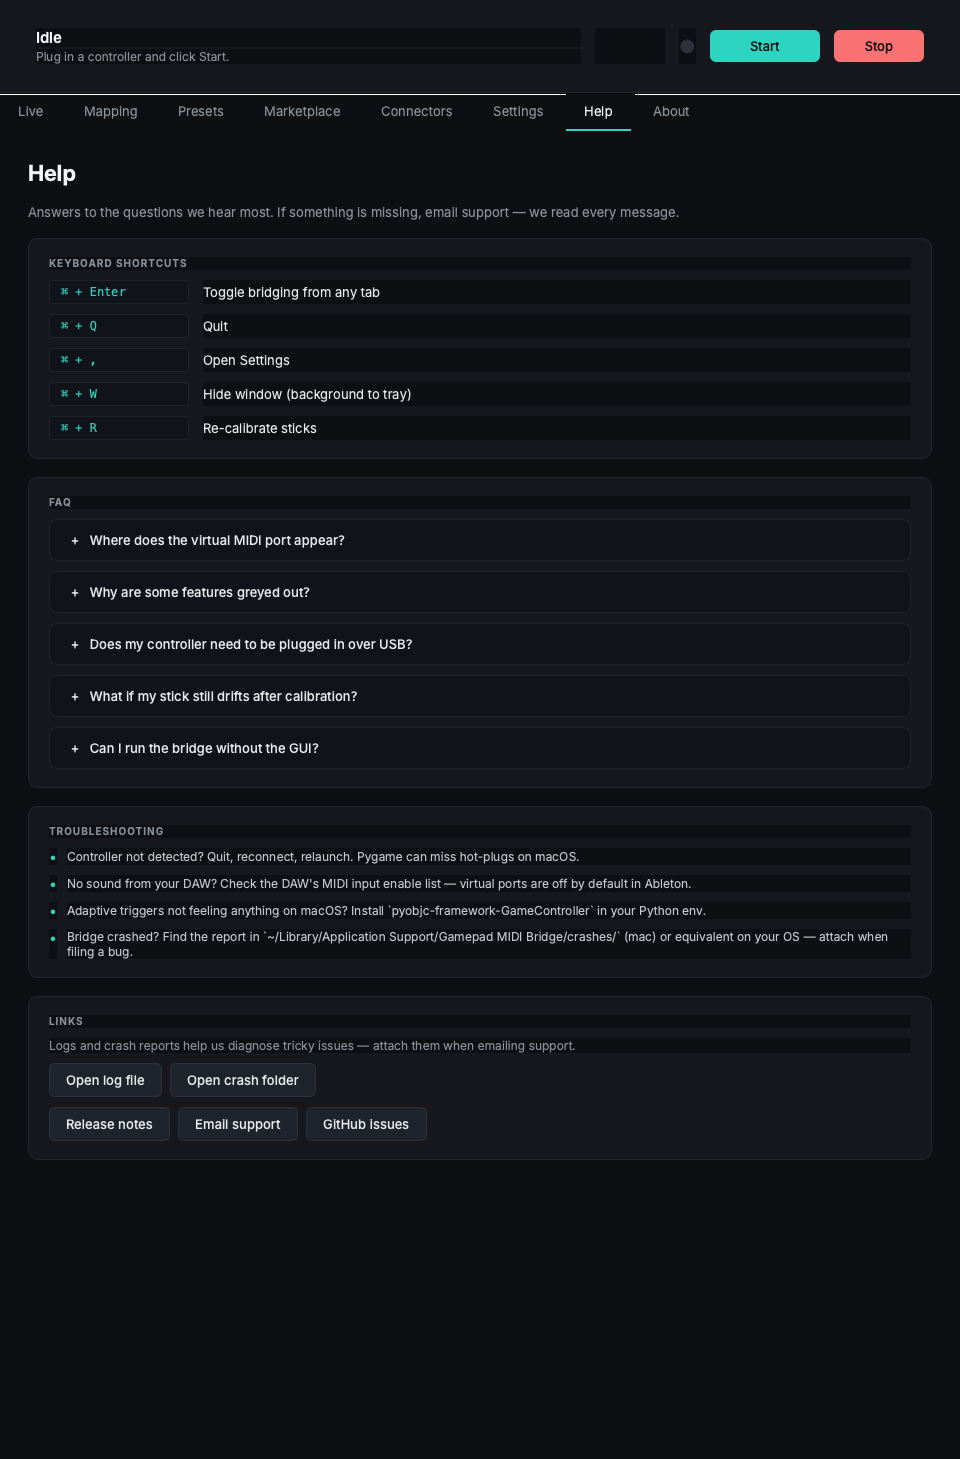
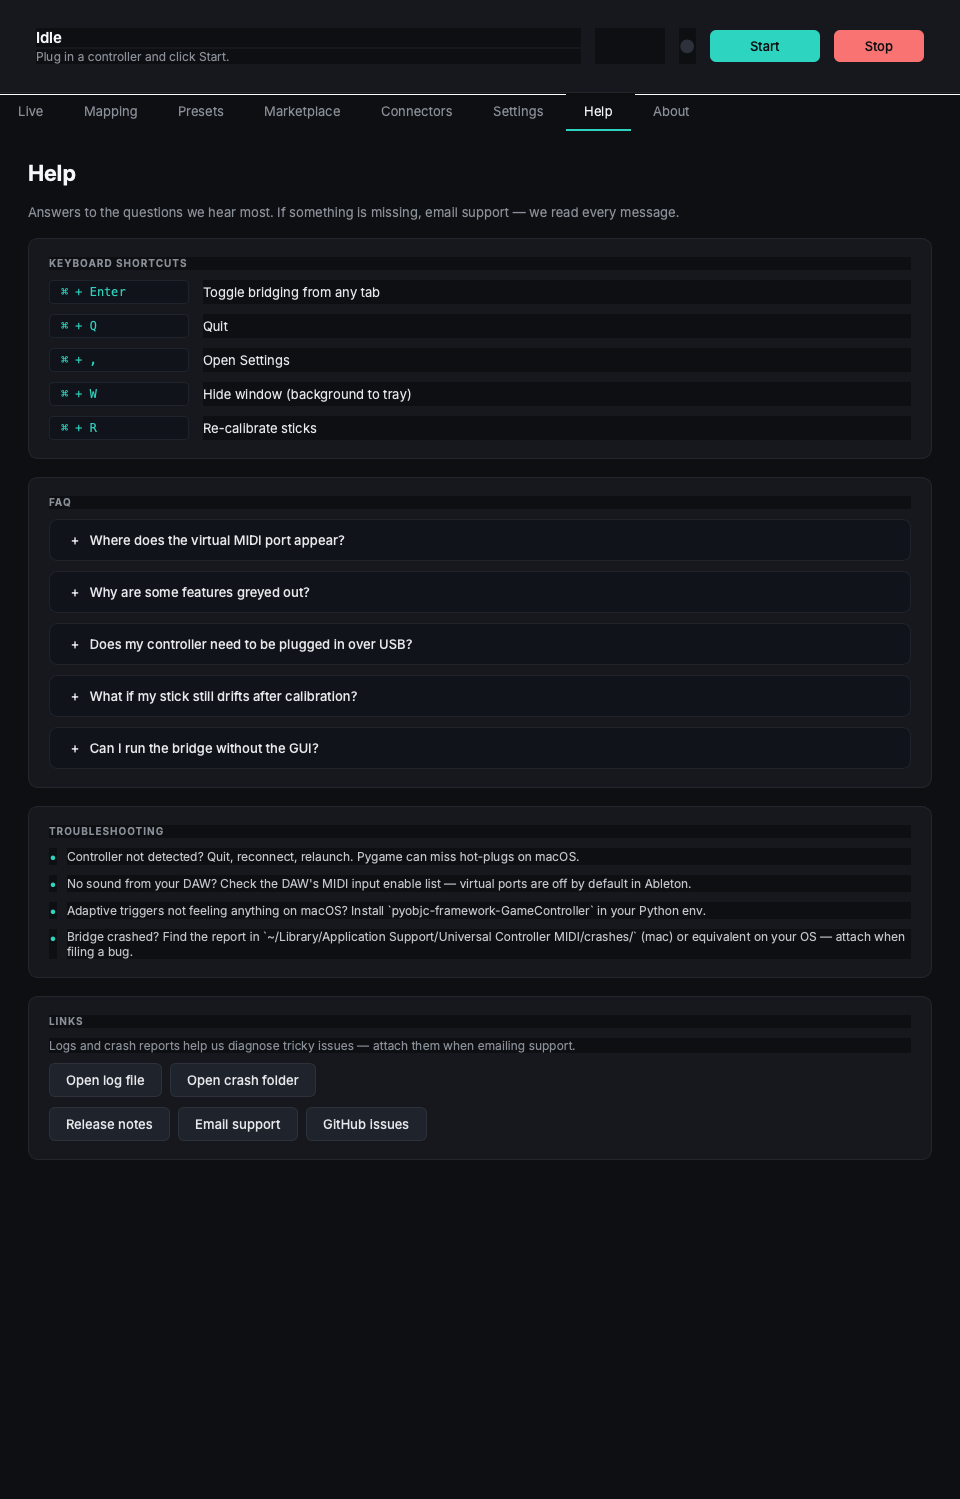
Rebrand to Universal Controller MIDI
Every user-facing string flips: window title, MIDI virtual-port name,
tray tooltip, status bar copy, About screen, Help tab text, dock label,
connector display strings ("Pick 'Universal Controller MIDI' from
Resolume's Shortcuts menu", "...in Live's Control Surface dropdown",
etc.), Ableton Remote Script folder name, .app bundle name, README,
CHANGELOG, LAUNCH, TESTING, EULA, docs/.

Internal package name stays `gamepad_midi_bridge` to avoid a 60-file
import-tree rewrite for zero user-visible benefit. Bundle ID stays
`design.aidxn.gamepad-midi-bridge` so installs already in flight under
the old name keep their user-data dir. Windows port matcher accepts
both names so loopMIDI configs from beta builds keep working.

PyInstaller now emits dist/Universal Controller MIDI.app — verified
launches clean in demo mode, --version reports correctly, all 47
pytest tests still green.

diff --git a/src/gamepad_midi_bridge/connectors/vdmx.py b/src/gamepad_midi_bridge/connectors/vdmx.py
@@ -6,7 +6,7 @@ File → Open Template menu and land on a workspace pre-wired to the bridge's
 virtual MIDI port.
 
 Install path:
-    ~/Documents/VDMX/Templates/Gamepad MIDI Bridge.vdmx5
+    ~/Documents/VDMX/Templates/Universal Controller MIDI.vdmx5
 
 VDMX5 files are plist-based XML. We build a minimal valid plist programmatically
 via `plistlib` rather than shipping a binary blob — easier to maintain and
@@ -25,7 +25,7 @@ from typing import List
 from .base import Connector, HostInstallation, InstallResult
 
 
-TEMPLATE_FILENAME = "Gamepad MIDI Bridge.vdmx5"
+TEMPLATE_FILENAME = "Universal Controller MIDI.vdmx5"
 
 
 class VDMXConnector(Connector):
@@ -102,11 +102,11 @@ class VDMXConnector(Connector):
     def post_install_steps(self, host: HostInstallation) -> str:
         return (
             "1. Open VDMX.\n"
-            "2. File → Open Template → pick 'Gamepad MIDI Bridge'.\n"
+            "2. File → Open Template → pick 'Universal Controller MIDI'.\n"
             "3. Workspace loads with the bridge virtual MIDI port as input "
             "and controls pre-mapped.\n"
             "4. If the port isn't auto-selected, open Workspace Inspector → "
-            "MIDI and pick 'Gamepad MIDI Bridge'."
+            "MIDI and pick 'Universal Controller MIDI'."
         )
 
 
@@ -117,7 +117,7 @@ def _build_workspace_plist() -> dict:
 
     VDMX5 files declare an array of "plugins" — each one a control surface,
     layer, MIDI input source, etc. We declare:
-      - one MIDI input source listening to 'Gamepad MIDI Bridge'
+      - one MIDI input source listening to 'Universal Controller MIDI'
       - one slider plugin with 8 sliders bound to CCs 1, 2, 3, 4, 5, 6, 16, 17
       - one Layer Source plugin with the first 4 clip slots bound to notes 60-65
 
@@ -127,8 +127,8 @@ def _build_workspace_plist() -> dict:
     """
     midi_source = {
         "pluginClass": "MIDIInputSourcePlugin",
-        "name": "Gamepad MIDI Bridge In",
-        "midiDeviceName": "Gamepad MIDI Bridge",
+        "name": "Universal Controller MIDI In",
+        "midiDeviceName": "Universal Controller MIDI",
         "midiChannel": 1,
     }
 
@@ -155,7 +155,7 @@ def _build_workspace_plist() -> dict:
                     "type": "cc",
                     "channel": 1,
                     "cc": s["cc"],
-                    "source": "Gamepad MIDI Bridge",
+                    "source": "Universal Controller MIDI",
                 },
             }
             for s in slider_bindings
@@ -173,7 +173,7 @@ def _build_workspace_plist() -> dict:
                     "type": "note",
                     "channel": 1,
                     "note": note,
-                    "source": "Gamepad MIDI Bridge",
+                    "source": "Universal Controller MIDI",
                 },
             }
             for i, note in enumerate(clip_notes)
@@ -182,7 +182,7 @@ def _build_workspace_plist() -> dict:
 
     return {
         "version": "5",
-        "name": "Gamepad MIDI Bridge",
-        "description": "Pre-wired workspace for the Gamepad MIDI Bridge.",
+        "name": "Universal Controller MIDI",
+        "description": "Pre-wired workspace for the Universal Controller MIDI.",
         "plugins": [midi_source, sliders_plugin, layer_plugin],
     }

diff --git a/src/gamepad_midi_bridge/connectors/templates/ableton_remote_script/Universal Controller MIDI/GamepadMidiBridge.py b/src/gamepad_midi_bridge/connectors/templates/ableton_remote_script/Universal Controller MIDI/GamepadMidiBridge.py
@@ -1,8 +1,8 @@
-"""Gamepad MIDI Bridge — Ableton Live Remote Script (ControlSurface).
+"""Universal Controller MIDI — Ableton Live Remote Script (ControlSurface).
 
 WHAT THIS DOES
 ==============
-Binds the default gamepad MIDI map produced by Gamepad MIDI Bridge to native
+Binds the default gamepad MIDI map produced by Universal Controller MIDI to native
 Live controls so the user gets clip launch, transport, mixer, and scene
 navigation without manually MIDI-learning every button:
 
@@ -35,14 +35,14 @@ process, so no Ableton IP is redistributed.
 
 INSTALL
 =======
-Use Gamepad MIDI Bridge's "Connectors" tab and click Install for Ableton Live.
+Use Universal Controller MIDI's "Connectors" tab and click Install for Ableton Live.
 The connector copies this folder into:
 
-    macOS  : ~/Music/Ableton/User Library/Remote Scripts/Gamepad MIDI Bridge/
-    Windows: ~/Documents/Ableton/User Library/Remote Scripts/Gamepad MIDI Bridge/
+    macOS  : ~/Music/Ableton/User Library/Remote Scripts/Universal Controller MIDI/
+    Windows: ~/Documents/Ableton/User Library/Remote Scripts/Universal Controller MIDI/
 
 Then in Live: Preferences -> Link, Tempo & MIDI -> Control Surface dropdown ->
-pick "Gamepad MIDI Bridge". Set Input to the bridge's virtual MIDI port.
+pick "Universal Controller MIDI". Set Input to the bridge's virtual MIDI port.
 """
 from __future__ import absolute_import
 
@@ -100,13 +100,13 @@ class GamepadMidiBridge(ControlSurface):
     def __init__(self, c_instance):
         super(GamepadMidiBridge, self).__init__(c_instance)
         with self.component_guard():
-            self._suggested_input_port = "Gamepad MIDI Bridge"
-            self._suggested_output_port = "Gamepad MIDI Bridge"
+            self._suggested_input_port = "Universal Controller MIDI"
+            self._suggested_output_port = "Universal Controller MIDI"
             self._build_session()
             self._build_mixer()
             self._build_transport()
             self._build_scene_navigation()
-        self.log_message("Gamepad MIDI Bridge: loaded.")
+        self.log_message("Universal Controller MIDI: loaded.")
 
     # ------------------------------------------------------------------ session
     def _build_session(self):

diff --git a/src/gamepad_midi_bridge/connectors/madmapper.py b/src/gamepad_midi_bridge/connectors/madmapper.py
@@ -4,12 +4,12 @@ MadMapper's .map workspace files own a project — surgically rewriting one
 would mangle the user's content. The safer integration is a custom MIDI
 device descriptor in MadMapper's Devices folder. MadMapper scans that folder
 on launch and exposes any device it finds in Preferences → MIDI, so our
-'Gamepad MIDI Bridge' shows up as a first-class controller the user can
+'Universal Controller MIDI' shows up as a first-class controller the user can
 right-click → Learn MIDI against.
 
 Install paths:
-    macOS  : ~/Documents/MadMapper/Devices/Gamepad MIDI Bridge.mmidi
-    Windows: %USERPROFILE%\\Documents\\MadMapper\\Devices\\Gamepad MIDI Bridge.mmidi
+    macOS  : ~/Documents/MadMapper/Devices/Universal Controller MIDI.mmidi
+    Windows: %USERPROFILE%\\Documents\\MadMapper\\Devices\\Universal Controller MIDI.mmidi
 
 Detection:
     macOS  : /Applications/MadMapper*.app, version from Info.plist
@@ -33,7 +33,7 @@ from typing import List, Optional
 from .base import Connector, HostInstallation, InstallResult, documents_dir
 
 
-DEVICE_FILENAME = "Gamepad MIDI Bridge.mmidi"
+DEVICE_FILENAME = "Universal Controller MIDI.mmidi"
 TEMPLATE_FILENAME = "madmapper_device.mmidi"
 MIN_MAJOR_VERSION = 5
 
@@ -80,7 +80,7 @@ class MadMapperConnector(Connector):
         return InstallResult(
             True, dest,
             f"Installed for {host.name}. Restart MadMapper — the gamepad now "
-            "appears in Preferences → MIDI as 'Gamepad MIDI Bridge'.",
+            "appears in Preferences → MIDI as 'Universal Controller MIDI'.",
         )
 
     def uninstall(self, host: HostInstallation) -> InstallResult:
@@ -99,7 +99,7 @@ class MadMapperConnector(Connector):
     def post_install_steps(self, host: HostInstallation) -> str:
         return (
             "1. Restart MadMapper (it scans Devices/ on launch).\n"
-            "2. Preferences → MIDI → the device 'Gamepad MIDI Bridge' "
+            "2. Preferences → MIDI → the device 'Universal Controller MIDI' "
             "appears in the list. Enable it.\n"
             "3. On any surface or control, right-click → Learn MIDI, then "
             "move the gamepad control you want to bind.\n"

diff --git a/src/gamepad_midi_bridge/connectors/templates/obs_helper.py b/src/gamepad_midi_bridge/connectors/templates/obs_helper.py
@@ -1,4 +1,4 @@
-"""OBS bridge helper — translates MIDI from "Gamepad MIDI Bridge" into
+"""OBS bridge helper — translates MIDI from "Universal Controller MIDI" into
 obs-websocket calls.
 
 Prereqs:
@@ -7,8 +7,8 @@ Prereqs:
 Run:
     python obs_bridge_helper.py --password YOUR_OBS_PASSWORD
 
-This file is generated by the Gamepad MIDI Bridge OBS connector and dropped
-into ~/Documents/Gamepad MIDI Bridge (OBS)/. Edit the ACTIONS dict to change
+This file is generated by the Universal Controller MIDI OBS connector and dropped
+into ~/Documents/Universal Controller MIDI (OBS)/. Edit the ACTIONS dict to change
 bindings without re-installing.
 """
 from __future__ import annotations
@@ -29,7 +29,7 @@ except ImportError as e:
 
 
 # Note number -> (action_name, *args). Edit me!
-# Default mapping uses Gamepad MIDI Bridge defaults: face buttons 60-65,
+# Default mapping uses Universal Controller MIDI defaults: face buttons 60-65,
 # shoulders 67/69, d-pad 78-81.
 ACTIONS = {
     60: ("scene", 0),
@@ -86,11 +86,11 @@ def _route_note(client: "ReqClient", note: int) -> None:
 
 
 def main() -> int:
-    parser = argparse.ArgumentParser(description="Gamepad MIDI Bridge → OBS helper")
+    parser = argparse.ArgumentParser(description="Universal Controller MIDI → OBS helper")
     parser.add_argument("--password", required=True, help="obs-websocket password")
     parser.add_argument("--host", default="127.0.0.1")
     parser.add_argument("--port", type=int, default=4455)
-    parser.add_argument("--midi-port", default="Gamepad MIDI Bridge")
+    parser.add_argument("--midi-port", default="Universal Controller MIDI")
     parser.add_argument("--debug", action="store_true")
     args = parser.parse_args()
 

diff --git a/src/gamepad_midi_bridge/connectors/obs.py b/src/gamepad_midi_bridge/connectors/obs.py
@@ -10,7 +10,7 @@ Detection: scan for an OBS install. We don't need OBS to be running at
 install time, just present.
 
 Install: write the helper script + a one-page README into a
-`Gamepad MIDI Bridge` subfolder of the user's Documents. The README
+`Universal Controller MIDI` subfolder of the user's Documents. The README
 tells them how to configure their obs-websocket password.
 """
 from __future__ import annotations
@@ -22,7 +22,7 @@ from typing import List
 from .base import Connector, HostInstallation, InstallResult, documents_dir
 
 
-SUBFOLDER = "Gamepad MIDI Bridge (OBS)"
+SUBFOLDER = "Universal Controller MIDI (OBS)"
 HELPER_NAME = "obs_bridge_helper.py"
 README_NAME = "README.md"
 TEMPLATE_FILENAME = "obs_helper.py"
@@ -126,9 +126,9 @@ class ObsConnector(Connector):
         )
 
 
-_README_BODY = """# Gamepad MIDI Bridge — OBS helper
+_README_BODY = """# Universal Controller MIDI — OBS helper
 
-This Python script bridges MIDI from "Gamepad MIDI Bridge" into your
+This Python script bridges MIDI from "Universal Controller MIDI" into your
 running OBS instance via obs-websocket v5.
 
 ## Prereqs
@@ -151,7 +151,7 @@ Optional flags:
 - `--host` — default 127.0.0.1
 - `--port` — default 4455 (obs-websocket default)
 - `--midi-port` — substring of the MIDI port name to listen on
-                   (default: "Gamepad MIDI Bridge")
+                   (default: "Universal Controller MIDI")
 
 ## What's mapped
 

diff --git a/src/gamepad_midi_bridge/connectors/ableton.py b/src/gamepad_midi_bridge/connectors/ableton.py
@@ -26,7 +26,7 @@ from typing import List, Optional
 from .base import Connector, HostInstallation, InstallResult
 
 
-REMOTE_SCRIPT_FOLDER = "Gamepad MIDI Bridge"
+REMOTE_SCRIPT_FOLDER = "Universal Controller MIDI"
 TEMPLATE_SUBDIR = "ableton_remote_script"
 MIN_MAJOR_VERSION = 11
 
@@ -72,7 +72,7 @@ class AbletonConnector(Connector):
         return InstallResult(
             True, dest,
             f"Installed for {host.name}. Restart Live, then pick "
-            "'Gamepad MIDI Bridge' in Preferences → Link, Tempo & MIDI.",
+            "'Universal Controller MIDI' in Preferences → Link, Tempo & MIDI.",
         )
 
     def uninstall(self, host: HostInstallation) -> InstallResult:
@@ -92,7 +92,7 @@ class AbletonConnector(Connector):
         return (
             "1. Restart Ableton Live (or quit and reopen).\n"
             "2. Preferences → Link, Tempo & MIDI → Control Surface dropdown → "
-            "pick 'Gamepad MIDI Bridge'.\n"
+            "pick 'Universal Controller MIDI'.\n"
             "3. Set Input to the bridge's virtual MIDI port. Output isn't needed.\n"
             "4. Save the Live set so the Control Surface assignment persists."
         )

diff --git a/src/gamepad_midi_bridge/connectors/resolume.py b/src/gamepad_midi_bridge/connectors/resolume.py
@@ -24,7 +24,7 @@ from typing import List
 from .base import Connector, HostInstallation, InstallResult, documents_dir
 
 
-SHORTCUT_FILENAME = "Gamepad MIDI Bridge.xml"
+SHORTCUT_FILENAME = "Universal Controller MIDI.xml"
 TEMPLATE_FILENAME = "resolume_default.xml"
 MINIMAL_TEMPLATE_FILENAME = "resolume_minimal.xml"
 
@@ -89,7 +89,7 @@ class ResolumeConnector(Connector):
         return InstallResult(
             True, dest,
             f"Installed for {host.name}. Open Resolume and pick "
-            "'Gamepad MIDI Bridge' from Shortcuts → Application Map.",
+            "'Universal Controller MIDI' from Shortcuts → Application Map.",
         )
 
     def uninstall(self, host: HostInstallation) -> InstallResult:
@@ -109,7 +109,7 @@ class ResolumeConnector(Connector):
         return (
             "1. Open Resolume.\n"
             "2. Go to Shortcuts → Application Map.\n"
-            "3. Pick 'Gamepad MIDI Bridge'.\n"
+            "3. Pick 'Universal Controller MIDI'.\n"
             "4. Make sure Resolume's MIDI input is set to the bridge "
             "virtual port (Preferences → MIDI)."
         )

diff --git a/src/gamepad_midi_bridge/midi_backend.py b/src/gamepad_midi_bridge/midi_backend.py
@@ -13,8 +13,10 @@ from typing import List, Optional
 import rtmidi
 
 
-DEFAULT_PORT_NAME = "Gamepad MIDI Bridge"
-WINDOWS_FALLBACK_NAME = "ps5-bridge"   # matches the original script for upgraders
+DEFAULT_PORT_NAME = "Universal Controller MIDI"
+# Legacy port names we'll auto-match on Windows so users upgrading from
+# beta/loopMIDI configurations don't have to rebuild their routing.
+WINDOWS_FALLBACK_NAMES = ("ps5-bridge", "Universal Controller MIDI")
 
 
 @dataclass
@@ -50,7 +52,9 @@ def open_port(preferred_name: str = DEFAULT_PORT_NAME) -> OpenedPort:
         ports = out.get_ports()
         for i, name in enumerate(ports):
             lowered = name.lower()
-            if preferred_name.lower() in lowered or WINDOWS_FALLBACK_NAME in lowered:
+            if preferred_name.lower() in lowered or any(
+                fb.lower() in lowered for fb in WINDOWS_FALLBACK_NAMES
+            ):
                 out.open_port(i)
                 return OpenedPort(port=out, name=name, virtual=False)
         del out

diff --git a/src/gamepad_midi_bridge/connectors/reaper.py b/src/gamepad_midi_bridge/connectors/reaper.py
@@ -10,9 +10,9 @@ For MIDI bindings, flags include MIDI-mode bits (0xC1 for CC, 0xA1 for note),
 key holds the CC/note number, and section is 0 (main).
 
 Install paths:
-    macOS  : ~/Library/Application Support/REAPER/KeyMaps/Gamepad MIDI Bridge.ReaperKeyMap
-    Windows: %APPDATA%\\REAPER\\KeyMaps\\Gamepad MIDI Bridge.ReaperKeyMap
-    Linux  : ~/.config/REAPER/KeyMaps/Gamepad MIDI Bridge.ReaperKeyMap
+    macOS  : ~/Library/Application Support/REAPER/KeyMaps/Universal Controller MIDI.ReaperKeyMap
+    Windows: %APPDATA%\\REAPER\\KeyMaps\\Universal Controller MIDI.ReaperKeyMap
+    Linux  : ~/.config/REAPER/KeyMaps/Universal Controller MIDI.ReaperKeyMap
 
 Reaper has a native Linux build, so we handle all three platforms.
 
@@ -32,7 +32,7 @@ from typing import List, Optional
 from .base import Connector, HostInstallation, InstallResult
 
 
-KEYMAP_FILENAME = "Gamepad MIDI Bridge.ReaperKeyMap"
+KEYMAP_FILENAME = "Universal Controller MIDI.ReaperKeyMap"
 TEMPLATE_FILENAME = "reaper_default.ReaperKeyMap"
 
 

diff --git a/src/gamepad_midi_bridge/ui/tray.py b/src/gamepad_midi_bridge/ui/tray.py
@@ -31,7 +31,7 @@ class TrayController(QObject):
         self.tray = QSystemTrayIcon(parent)
         if icon_path is not None and icon_path.exists():
             self.tray.setIcon(QIcon(str(icon_path)))
-        self.tray.setToolTip("Gamepad MIDI Bridge")
+        self.tray.setToolTip("Universal Controller MIDI")
 
         menu = QMenu()
         self._start = QAction("Start bridging", menu)
@@ -63,8 +63,8 @@ class TrayController(QObject):
         self._start.setEnabled(not running)
         self._stop.setEnabled(running)
         self.tray.setToolTip(
-            "Gamepad MIDI Bridge — bridging" if running
-            else "Gamepad MIDI Bridge — idle"
+            "Universal Controller MIDI — bridging" if running
+            else "Universal Controller MIDI — idle"
         )
 
     def _on_activated(self, reason: QSystemTrayIcon.ActivationReason) -> None:

diff --git a/src/gamepad_midi_bridge/connectors/templates/ableton_remote_script/Universal Controller MIDI/__init__.py b/src/gamepad_midi_bridge/connectors/templates/ableton_remote_script/Universal Controller MIDI/__init__.py
@@ -1,4 +1,4 @@
-"""Ableton Live Remote Script entry point for Gamepad MIDI Bridge.
+"""Ableton Live Remote Script entry point for Universal Controller MIDI.
 
 Live discovers Remote Scripts by importing the folder as a package and calling
 `create_instance(c_instance)`. The returned object must be a ControlSurface
@@ -41,7 +41,7 @@ def get_capabilities():
         CONTROLLER_ID_KEY: controller_id(
             vendor_id=0x0000,
             product_ids=[0x0000],
-            model_name=["Gamepad MIDI Bridge"],
+            model_name=["Universal Controller MIDI"],
         ),
         PORTS_KEY: [
             inport(props=[NOTES_CC, SCRIPT, REMOTE]),

diff --git a/src/gamepad_midi_bridge/bridge.py b/src/gamepad_midi_bridge/bridge.py
@@ -75,7 +75,7 @@ class BridgeWorker(QObject):
                  demo: bool = False) -> None:
         """Multi-controller plumbing — slot_index picks which pygame joystick
         this worker binds to, and midi_port_name overrides the virtual port so
-        two workers don't fight over a single "Gamepad MIDI Bridge" port name.
+        two workers don't fight over a single "Universal Controller MIDI" port name.
         `demo` swaps the pygame reader for a synthetic one so the bridge can
         be exercised end-to-end without hardware (recording demo videos, CI).
         Both default to the V1.1 single-controller behaviour.
